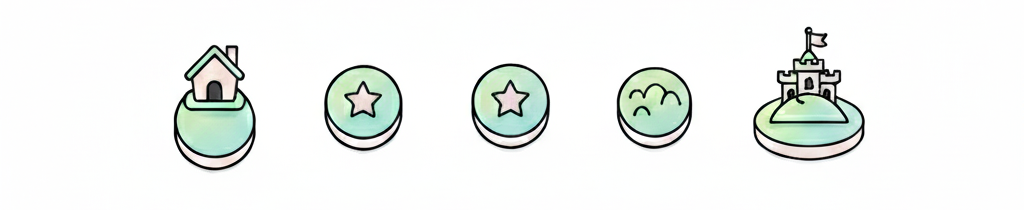
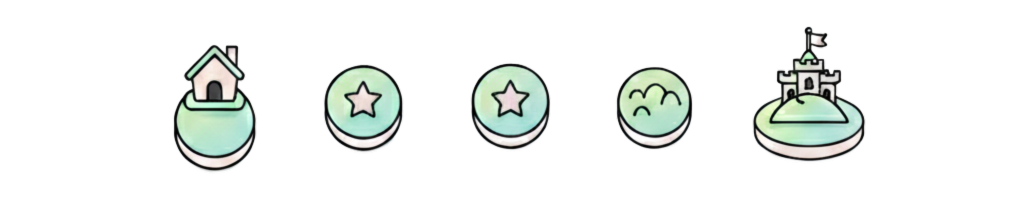
Update UI and remove Automation screen
Refined DailyQuest and Home screen UI with improved text styling and streak display. Removed Automation screen and related navigation references. Updated image assets for DailyQuest, achievement, and icon.

diff --git a/screens/DailyQuestScreen.tsx b/screens/DailyQuestScreen.tsx
@@ -10,6 +10,7 @@ import { useTheme } from '../lib/ThemeContext';
 import { playSoundEffect } from '../lib/soundEffects';
 import { computeLevel } from './levels';
 import { testPlaySound } from '../lib/testSound';
+import { blue } from 'react-native-reanimated/lib/typescript/Colors';
 
 
 
@@ -166,11 +167,12 @@ const DailyQuestScreen: React.FC<Props> = ({ navigation }) => {
     <View style={[styles.container, { backgroundColor: theme.backgroundColor }]}>
       <Image
         source={require('../assets/images/DailyQuest.png')}
-        style={{ width: 500, height: 200, marginBottom: 20 }}
+        style={{ width: 500, height: 200, marginBottom: 1 }}
         contentFit="contain"
       />
-      <Text style={[styles.title, { color: theme.textColor }]}>Daily Quest</Text>
-      <Text style={[styles.task, { color: theme.textColor }]}>{task}</Text>
+      <Text style={[styles.title, {fontSize: 50, color:"#70AD8F" }]}>Daily Quest</Text>
+      <Text style={[styles.task, {fontWeight: 'bold', color: theme.textColor }]}>{task}</Text>
+      <Text style={[styles.streak, { color: theme.textColor }]}>🔥 Current Streak: {streak} day{streak === 1 ? '' : 's'}</Text>
 
       {!isRunning && !isComplete && (
         <>
@@ -182,13 +184,6 @@ const DailyQuestScreen: React.FC<Props> = ({ navigation }) => {
             setTask(TASKS[Math.floor(Math.random() * TASKS.length)]);
           }}>
             <Text style={[styles.buttonText, styles.textSecondary]}>New Task</Text>
-          </TouchableOpacity>
-
-          <TouchableOpacity style={[styles.button, styles.testButton]} onPress={() => {
-            console.log('Test button pressed');
-            testPlaySound();
-          }}>
-            <Text style={[styles.buttonText, styles.textSecondary]}>🔊 Test Sound</Text>
           </TouchableOpacity>
         </>
       )}
@@ -229,6 +224,9 @@ const DailyQuestScreen: React.FC<Props> = ({ navigation }) => {
           </TouchableOpacity>
         </Animated.View>
       )}
+
+       <Text style={[styles.streak, { color: theme.textColor,}]}> LEVEL </Text>
+       
     </View>
   );
 };

diff --git a/screens/HomeScreen.tsx b/screens/HomeScreen.tsx
@@ -20,9 +20,8 @@ const HomeScreen: React.FC<Props> = ({ navigation }) => {
         contentFit="contain"
       />
 
-      <Text style={[styles.title, { color: theme.textColor }]}> Welcome to Relax Mode </Text>
-      <Text style={[styles.subtitle, { color: theme.secondaryTextColor }]}>A simple base to our app.</Text>
-
+      <Text style={[styles.subtitle, { fontSize: 25, color: theme.textColor }]}> Welcome to </Text>
+      <Text style={[styles.title, { color: theme.textColor }]}> Relax Mode </Text>
       <CustomButton
         title="Daily Quest"
         onPress={() => navigation.navigate('DailyQuest')}
@@ -33,24 +32,10 @@ const HomeScreen: React.FC<Props> = ({ navigation }) => {
         onPress={() => navigation.navigate('Routines')} 
       />
       
-      <CustomButton 
-        title="Automation" 
-        onPress={() => navigation.navigate('Automation')} 
-      />
-
-      <CustomButton 
-        title="Analytics" 
-        onPress={() => navigation.navigate('Analytics')} 
-      />
-
       <CustomButton
         title="Start Relaxation"
         onPress={() => navigation.navigate('Relaxation')}
       />
-    <CustomButton
-        title="Levels"
-        onPress={() => navigation.navigate('Levels')}
-      />  
 
       <CustomButton
         title="Settings"

diff --git a/navigation/RootNavigator.tsx b/navigation/RootNavigator.tsx
@@ -7,7 +7,6 @@ import SettingsScreen from '../screens/SettingsScreen';
 import DailyQuestScreen from '../screens/DailyQuestScreen';
 import RoutinesScreen from '../screens/RoutinesScreen';
 import CreateRoutineScreen from '../screens/CreateRoutineScreen';
-import AutomationScreen from '../screens/AutomationScreen';
 import levels from '../screens/levels';
 import AnalyticsScreen from '../screens/AnalyticsScreen'
 import RoutineTrackerScreen from '../screens/routinesTracker';
@@ -36,7 +35,6 @@ const RootNavigator = () => {
       <Stack.Screen name="DailyQuest" component={DailyQuestScreen} options={{ title: 'Daily Quest' }}/>
       <Stack.Screen name="Routines" component={RoutinesScreen} options={{ title: 'My Routines' }} />
       <Stack.Screen name="CreateRoutine" component={CreateRoutineScreen} options={{ title: 'Create Routine' }} />
-      <Stack.Screen name="Automation" component={AutomationScreen} options={{ title: 'Automation' }} />
       <Stack.Screen name="Levels" component={levels} options={{ title: 'Achievements' }} />
       <Stack.Screen name="Analytics" component={AnalyticsScreen} />
       <Stack.Screen name="RoutineTracker" component={RoutineTrackerScreen} options={{ title: 'Routine Path' }} />
